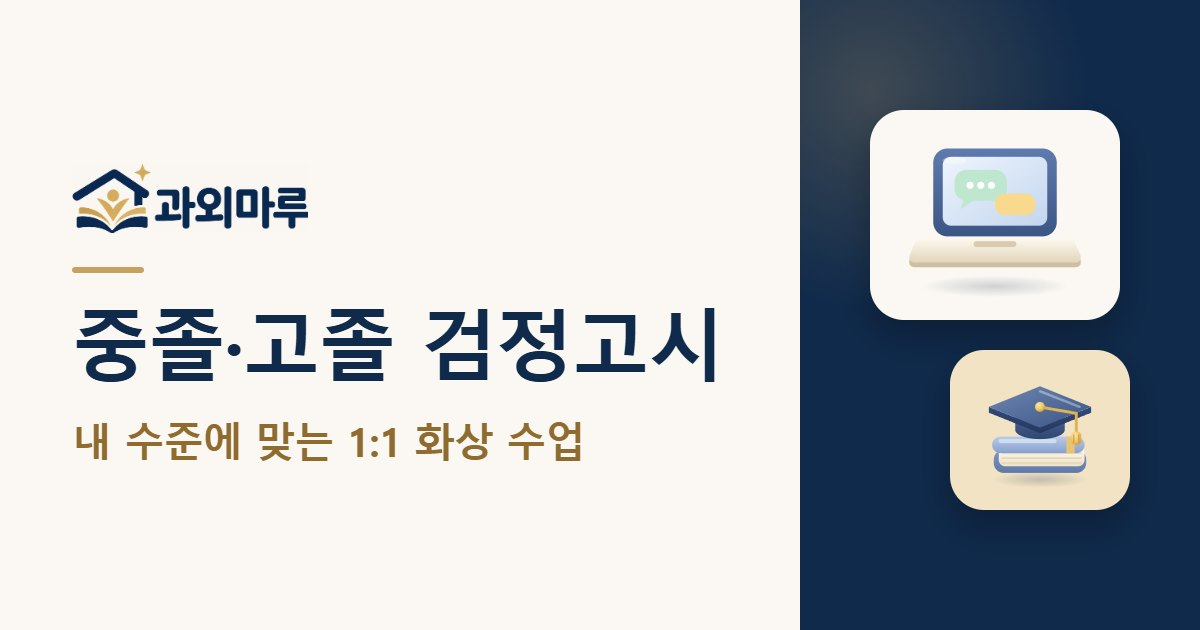
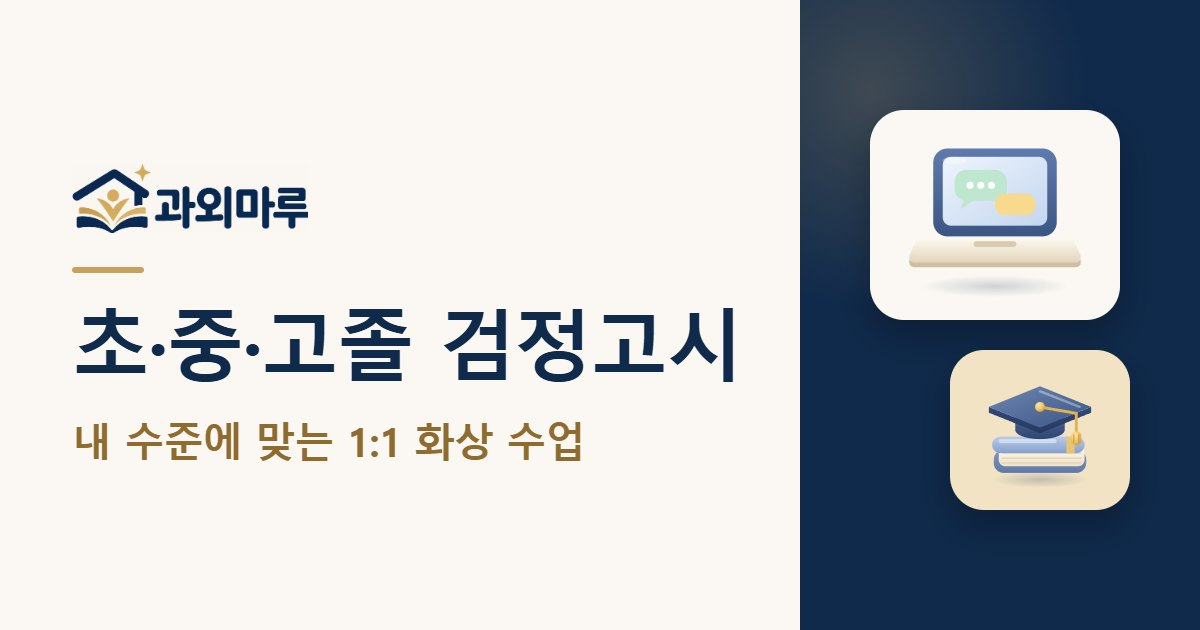
feat: 검정고시 대문 문구·학습 책상 이미지 교체, 초·중·고졸 과정 범위 정합성 (494차)
- H1 '초·중·고졸 검정고시, 내 수준에 맞는 1:1 과목 수업', 설명 둘째 문장 '국내·해외 거주자 수업 가능'
- 대문 이미지 images/ged-hero-study.webp(800×1000, 원본 비율) · 492차 인물 전용 스타일 정리
- title·description·OG·Service·소개·추천 카드·FAQ(화면·JSON-LD)를 초·중·고졸 범위로 맞춤
- 과목 카드 태그에 과정명 명시(중졸·고졸 필수), 초졸 과목은 공식 공고 기준 상담 안내
- og-ged.jpg 문구 '초·중·고졸 검정고시'

Changed region(s): [[0.0617, 0.4825, 0.6167, 0.6032]]

diff --git a/ged/index.html b/ged/index.html
@@ -3,20 +3,20 @@
 <head>
 <meta charset="UTF-8">
 <meta name="viewport" content="width=device-width, initial-scale=1.0">
-<title>검정고시 과외 | 중졸·고졸 1:1 화상 수업 - 과외마루</title>
-<meta name="description" content="중졸·고졸 검정고시 1:1 화상 과외. 기초부터 취약 과목까지 현재 수준과 목표 시험에 맞춰 학습 계획을 안내합니다. 국내·해외 거주자와 성인 학습자도 상담 가능합니다.">
+<title>검정고시 과외 | 초·중·고졸 1:1 화상 수업 - 과외마루</title>
+<meta name="description" content="초·중·고졸 검정고시 1:1 화상 과외. 기초부터 취약 과목까지 현재 수준과 목표 시험에 맞춰 학습 계획을 안내합니다. 국내·해외 거주자와 성인 학습자도 상담 가능합니다.">
 <meta name="robots" content="index,follow">
 <link rel="canonical" href="https://signaturetutoring.co.kr/ged/">
 <meta property="og:type" content="website">
 <meta property="og:url" content="https://signaturetutoring.co.kr/ged/">
-<meta property="og:title" content="검정고시 과외 | 중졸·고졸 1:1 화상 수업 - 과외마루">
-<meta property="og:description" content="기초부터 취약 과목까지 현재 수준과 목표 시험에 맞춰 준비하는 중졸·고졸 검정고시 1:1 화상 수업. 국내·해외 거주자와 성인 학습자도 상담 가능합니다.">
+<meta property="og:title" content="검정고시 과외 | 초·중·고졸 1:1 화상 수업 - 과외마루">
+<meta property="og:description" content="기초부터 취약 과목까지 현재 수준과 목표 시험에 맞춰 준비하는 초·중·고졸 검정고시 1:1 화상 수업. 국내·해외 거주자와 성인 학습자도 상담 가능합니다.">
 <meta property="og:site_name" content="과외마루">
 <meta property="og:locale" content="ko_KR">
 <meta property="og:image" content="https://signaturetutoring.co.kr/images/og-ged.jpg"><!-- [493차] 검정고시 전용 공유 이미지(1200×630 JPG) · 공통 이미지(og-share-safe.jpg)는 그대로 -->
 <meta property="og:image:width" content="1200">
 <meta property="og:image:height" content="630">
-<meta property="og:image:alt" content="과외마루 중졸·고졸 검정고시 - 내 수준에 맞는 1:1 화상 수업">
+<meta property="og:image:alt" content="과외마루 초·중·고졸 검정고시 - 내 수준에 맞는 1:1 화상 수업">
 <meta name="theme-color" content="#102a4b">
 <!-- [35차] 검정고시 전용 랜딩페이지 (subject/index.html 디자인 시스템·헤더·푸터 기준으로 복사해 독립 작성. body.page-subject 공통 스타일 + .ged-* 전용 스타일) -->
 <link rel="icon" href="../images/favicon.ico" sizes="any">
@@ -35,7 +35,7 @@
         "@type": "EducationalOrganization",
         "name": "과외마루"
       },
-      "description": "중졸·고졸 검정고시를 준비하는 학습자를 위한 1:1 화상 전용 과외. 현재 수준과 목표 시험에 맞춰 과목별 학습 계획을 세우며, 국내·해외 거주자와 성인 학습자도 상담할 수 있습니다."
+      "description": "초·중·고졸 검정고시를 준비하는 학습자를 위한 1:1 화상 전용 과외. 현재 수준과 목표 시험에 맞춰 과목별 학습 계획을 세우며, 국내·해외 거주자와 성인 학습자도 상담할 수 있습니다."
     },
     {
       "@type": "FAQPage",
@@ -50,10 +50,10 @@
         },
         {
           "@type": "Question",
-          "name": "중졸 검정고시와 고졸 검정고시 모두 수업이 가능한가요?",
+          "name": "초졸·중졸·고졸 검정고시 모두 수업이 가능한가요?",
           "acceptedAnswer": {
             "@type": "Answer",
-            "text": "네, 두 과정 모두 상담 가능합니다. 과정별 시험 과목과 학생의 목표에 맞춰 수업 과목과 순서를 안내해드립니다."
+            "text": "네, 세 과정 모두 상담 가능합니다. 준비하는 과정과 현재 수준에 맞춰 수업 과목과 순서를 안내해드립니다."
           }
         },
         {
@@ -123,8 +123,6 @@
 <link rel="stylesheet" href="https://fonts.googleapis.com/css2?family=Nanum+Gothic:wght@400;700;800&display=swap">
 <link rel="stylesheet" href="../css/style.css">
 <style>
-/* [492차] 대문 인물 이미지: 누끼(배경 없는 서 있는 사진) → 공통 상담 인물 사진(4:5, 배경 있음)으로 교체 · 사진 틀 폭(360·300·220px)은 기존 규칙 그대로
-   · 배경이 있는 사진이라 아래로 걸치는 음수 여백 대신 둥근 사진 카드로 표시 · 얼굴·정수리가 잘리지 않게 위쪽 기준 · 이 페이지 전용(공통 style.css 미수정) */
 /* [493차] 화상 전용 안내 보완 · 이 페이지 전용 */
 .page-ged .ged-hero .page-actions { gap: 12px; }
 .page-ged .ged-hero .page-actions a { min-height: 52px; padding: 0 24px; font-size: 16px; white-space: nowrap; }
@@ -158,6 +156,7 @@
 .page-ged .ged-related h3 { margin: 0 0 10px; color: var(--brand-navy); font-size: 17px; }
 .page-ged .ged-related ul { margin: 0; padding-left: 18px; display: grid; gap: 6px; }
 .page-ged .ged-related a { color: var(--brand-navy); font-size: 16px; line-height: 1.6; text-decoration: underline; text-underline-offset: 3px; word-break: keep-all; }
+.page-ged .ged-nowrap { white-space: nowrap; } /* [494차] 대문 제목·설명 끊김 방지 */
 @media (max-width: 900px) { .page-ged .ged-br { display: none; } }
 @media (max-width: 640px) {
   .page-ged .ged-hero .page-actions a { white-space: normal; text-align: center; }
@@ -170,7 +169,8 @@
   .page-ged .ged-online-list li, .page-ged .ged-fee p { font-size: 16px; }
   .page-ged .ged-related { padding: 18px 18px; }
 }
-.page-ged .sj-hero-visual.is-cutout.is-photo img { aspect-ratio: 4 / 5; height: auto; margin-bottom: 0; border-radius: 24px; object-fit: cover; object-position: 50% 20%; box-shadow: 0 18px 40px rgba(16, 42, 75, .14); }
+/* [494차] 대문 학습 책상 사진(4:5): 사진 틀 폭(360·300·220px)은 기존 규칙 그대로 · 아래로 걸치는 음수 여백 대신 둥근 사진 카드 · 문제집·답안지가 보이게 아래쪽 기준 */
+.page-ged .sj-hero-visual.is-cutout.is-photo img { aspect-ratio: 4 / 5; height: auto; margin-bottom: 0; border-radius: 24px; object-fit: cover; object-position: 50% 60%; box-shadow: 0 18px 40px rgba(16, 42, 75, .14); }
 </style>
 </head>
 <body class="page-subject page-ged">
@@ -217,14 +217,14 @@
         <li>검정고시</li>
       </ol>
       <span class="page-kicker">GED 1:1 TUTORING</span>
-      <h1>중졸·고졸 검정고시,<br><em>내 수준에 맞는 1:1 화상 수업</em></h1>
-      <p class="page-lead">기초부터 취약 과목까지, 현재 수준과 목표 시험에 맞춰 준비합니다. <br class="ged-br">국내·해외 거주자의 수업 가능 시간은 상담에서 안내합니다.</p>
+      <h1>초·중·고졸 검정고시,<br><em>내 수준에 맞는 1:1 <span class="ged-nowrap">과목 수업</span></em></h1>
+      <p class="page-lead">기초부터 취약 과목까지, 현재 수준과 목표 시험에 맞춰 준비합니다.<br><span class="ged-nowrap">국내·해외 거주자 수업 가능</span></p>
       <div class="page-actions">
         <a href="../consult.html" class="btn-navy">검정고시 무료 상담 신청</a>
         <a href="#strategy" class="btn-line">수업 과정 살펴보기 ↓</a>
       </div>
     </div>
-    <div class="sj-hero-visual is-cutout is-photo"><img src="../images/consult-guide-portrait.webp" alt="검정고시 상담 안내 인물 이미지" width="800" height="1000" loading="eager" fetchpriority="high" decoding="async"></div><!-- [492차] 대문 인물 = 공통 상담 인물 사진(teacher-geomjeong.webp는 선생님 카드에서 계속 사용, 파일 유지) -->
+    <div class="sj-hero-visual is-cutout is-photo"><img src="../images/ged-hero-study.webp" alt="문제집과 답안지, 필기구가 놓인 검정고시 학습 책상" width="800" height="1000" loading="eager" fetchpriority="high" decoding="async"></div><!-- [494차] 대문 이미지 = 검정고시 학습 책상 사진(원본 1122×1402 → WebP 800×1000) · 하단 상담 인물 사진(consult-guide-portrait.webp)은 그대로 -->
   </div>
 </section>
 
@@ -234,12 +234,12 @@
     <div class="section-head center">
       <div class="kicker">GED CLASS</div>
       <h2 id="gedAboutTitle">검정고시 1:1 맞춤수업</h2>
-      <p>중졸·고졸 검정고시를 준비하는 학습자의 상황에 맞춰 과목과 일정을 함께 설계합니다.</p>
+      <p>초·중·고졸 검정고시를 준비하는 학습자의 상황에 맞춰 과목과 일정을 함께 설계합니다.</p>
     </div>
     <div class="sj-reach-grid">
       <div class="sj-reach-item">
-        <strong>중졸·고졸 과정</strong>
-        <p>중학교·고등학교 졸업학력 검정고시 과정별 시험 과목에 맞춰 수업을 구성합니다.</p>
+        <strong>초·중·고졸 과정</strong>
+        <p>초등학교·중학교·고등학교 졸업학력 검정고시 과정별 시험 과목에 맞춰 수업을 구성합니다.</p>
       </div>
       <div class="sj-reach-item">
         <strong>시험 일정 맞춤 계획</strong>
@@ -265,9 +265,9 @@
       <article class="rec-card">
         <img class="ged-rec-ico" src="../images/conversation-korean-3d.svg" width="56" height="56" alt="" loading="lazy" decoding="async">
         <span class="rec-badge">CASE 01</span>
-        <h3>중졸 검정고시 준비</h3>
-        <p>중졸 학력 취득을 목표로 기초부터 차근차근 준비하려는 분</p>
-        <ul class="rec-tags"><li>중졸</li><li>기초정리</li></ul>
+        <h3>초졸·중졸 검정고시 준비</h3>
+        <p>초졸·중졸 학력 취득을 목표로 기초부터 차근차근 준비하려는 분</p>
+        <ul class="rec-tags"><li>초졸·중졸</li><li>기초정리</li></ul>
       </article>
       <article class="rec-card">
         <img class="ged-rec-ico" src="../images/conversation-school-3d.svg" width="56" height="56" alt="" loading="lazy" decoding="async">
@@ -318,27 +318,27 @@
     </div>
     <div class="ged-subject-grid">
       <div class="ged-subject">
-        <span class="ged-subject-tag">필수</span>
+        <span class="ged-subject-tag">중졸·고졸 필수</span>
         <h3>국어</h3>
         <p>문학·비문학 지문 읽기와 문법 개념을 기출 유형에 맞춰 정리합니다.</p>
       </div>
       <div class="ged-subject">
-        <span class="ged-subject-tag">필수</span>
+        <span class="ged-subject-tag">중졸·고졸 필수</span>
         <h3>수학</h3>
         <p>자주 출제되는 단원의 기본 개념과 풀이 순서를 반복해 익힙니다.</p>
       </div>
       <div class="ged-subject">
-        <span class="ged-subject-tag">필수</span>
+        <span class="ged-subject-tag">중졸·고졸 필수</span>
         <h3>영어</h3>
         <p>기본 어휘와 문법, 짧은 지문 독해를 시험 수준에 맞춰 준비합니다.</p>
       </div>
       <div class="ged-subject">
-        <span class="ged-subject-tag">필수</span>
+        <span class="ged-subject-tag">중졸·고졸 필수</span>
         <h3>사회</h3>
         <p>핵심 개념과 용어를 정리하고 자료·도표 해석 문제를 연습합니다.</p>
       </div>
       <div class="ged-subject">
-        <span class="ged-subject-tag">필수</span>
+        <span class="ged-subject-tag">중졸·고졸 필수</span>
         <h3>과학</h3>
         <p>개념의 원리를 이해하고 그림·그래프가 나오는 문제에 익숙해집니다.</p>
       </div>
@@ -358,7 +358,7 @@
         <p>국어 · 수학 · 영어 · 사회 · 과학 · 한국사 + 선택 1과목</p>
       </div>
     </div>
-    <p class="note-box"><!-- [493차] 서울특별시교육청 중졸·고졸 검정고시 안내 기준 -->선택 과목은 중졸 과정이 도덕·기술·가정·체육·음악·미술·정보 중 1과목, 고졸 과정이 도덕·기술·가정·체육·음악·미술 중 1과목입니다. 결시 없이 전 과목 평균 60점 이상이면 합격하며, 60점 이상인 과목은 과목합격으로 인정됩니다. 응시 자격·시험 일정·세부 사항은 해당 회차 공식 공고를 확인해 주세요.<br><span class="ged-src">참고: 서울특별시교육청 <a href="https://www.sen.go.kr/www/news/exam/gosiexam/gosiexam_2.jsp" target="_blank" rel="noopener">중졸 검정고시 안내</a> · <a href="https://www.sen.go.kr/www/news/exam/gosiexam/gosiexam_3.jsp" target="_blank" rel="noopener">고졸 검정고시 안내</a></span></p>
+    <p class="note-box"><!-- [493차] 서울특별시교육청 중졸·고졸 검정고시 안내 기준 -->선택 과목은 중졸 과정이 도덕·기술·가정·체육·음악·미술·정보 중 1과목, 고졸 과정이 도덕·기술·가정·체육·음악·미술 중 1과목입니다. 결시 없이 전 과목 평균 60점 이상이면 합격하며, 60점 이상인 과목은 과목합격으로 인정됩니다. 응시 자격·시험 일정·세부 사항은 해당 회차 공식 공고를 확인해 주세요. 초졸 과정의 시험 과목은 해당 회차 공식 공고를 기준으로 상담 시 안내합니다.<br><span class="ged-src">참고: 서울특별시교육청 <a href="https://www.sen.go.kr/www/news/exam/gosiexam/gosiexam_2.jsp" target="_blank" rel="noopener">중졸 검정고시 안내</a> · <a href="https://www.sen.go.kr/www/news/exam/gosiexam/gosiexam_3.jsp" target="_blank" rel="noopener">고졸 검정고시 안내</a></span></p>
   </div>
 </section>
 
@@ -384,7 +384,7 @@
       <div class="point-card">
         <span class="point-num">03</span>
         <h3>목표 시험 확인</h3>
-        <p>중졸·고졸 과정과 응시하려는 회차를 기준으로 과목별 학습 분량과 순서를 나눕니다.</p>
+        <p>초·중·고졸 과정과 응시하려는 회차를 기준으로 과목별 학습 분량과 순서를 나눕니다.</p>
       </div>
       <div class="point-card">
         <span class="point-num">04</span>
@@ -440,7 +440,7 @@
         </div>
       </div>
       <ul class="ged-online-list">
-        <li>상담 시 거주 국가·시간대, 중졸·고졸 과정, 희망 과목, 수업 가능한 시간을 알려주세요.</li>
+        <li>상담 시 거주 국가·시간대, 초·중·고졸 과정, 희망 과목, 수업 가능한 시간을 알려주세요.</li>
         <li>시차와 선생님 일정을 확인해 가능한 수업 시간을 안내합니다.</li>
         <li>국내 휴대폰 번호가 없다면 <a href="https://open.kakao.com/o/sB24cATi" target="_blank" rel="noopener">카카오톡 오픈채팅</a>으로 상담해 주세요.</li>
         <li>화상 수업을 위한 인터넷 연결과 카메라·마이크 사용 환경을 확인해 주세요.</li>
@@ -474,7 +474,7 @@
       <p>학생의 과정과 과목, 학습 상황을 고려해 맞는 선생님을 안내합니다.</p>
     </div>
     <div class="check-grid">
-      <div class="check-item">중졸·고졸 과정별 시험 과목 이해</div>
+      <div class="check-item">초·중·고졸 과정별 시험 과목 이해</div>
       <div class="check-item">기초부터 다시 설명하는 1:1 수업</div>
       <div class="check-item">시험 일정에 맞춘 진도 관리</div>
       <div class="check-item">학습 공백·생활 패턴 고려</div>
@@ -526,7 +526,7 @@
     </div>
     <div class="faq-list">
       <details><summary>공부를 오래 쉬었는데 검정고시 준비가 가능한가요?</summary><div class="faq-answer">가능합니다. 먼저 과목별 현재 수준을 확인한 뒤, 기초 개념부터 다시 정리하는 순서로 학습 계획을 세워 진행합니다.</div></details>
-      <details><summary>중졸 검정고시와 고졸 검정고시 모두 수업이 가능한가요?</summary><div class="faq-answer">네, 두 과정 모두 상담 가능합니다. 과정별 시험 과목과 학생의 목표에 맞춰 수업 과목과 순서를 안내해드립니다.</div></details>
+      <details><summary>초졸·중졸·고졸 검정고시 모두 수업이 가능한가요?</summary><div class="faq-answer">네, 세 과정 모두 상담 가능합니다. 준비하는 과정과 현재 수준에 맞춰 수업 과목과 순서를 안내해드립니다.</div></details>
       <details><summary>시험까지 기간이 얼마 남지 않았는데 수업할 수 있나요?</summary><div class="faq-answer">남은 기간과 과목별 수준을 확인해 우선순위를 정하고, 꼭 필요한 개념과 기출 유형 중심으로 단기 학습 계획을 안내해드립니다.</div></details>
       <details><summary>모든 과목을 다 수업받아야 하나요?</summary><div class="faq-answer">아닙니다. 학생이 어려워하는 과목이나 보완이 필요한 과목만 선택해 수업할 수 있으며, 상담에서 과목 구성을 함께 정합니다.</div></details>
       <details><summary>무료 체험 수업에서는 무엇을 확인하나요?</summary><div class="faq-answer">과목별 현재 학습 상태, 수업 방식의 적합도, 시험까지의 학습 계획 방향을 함께 확인할 수 있습니다. 구체적인 진행 방식은 상담 시 안내드립니다.</div></details>
